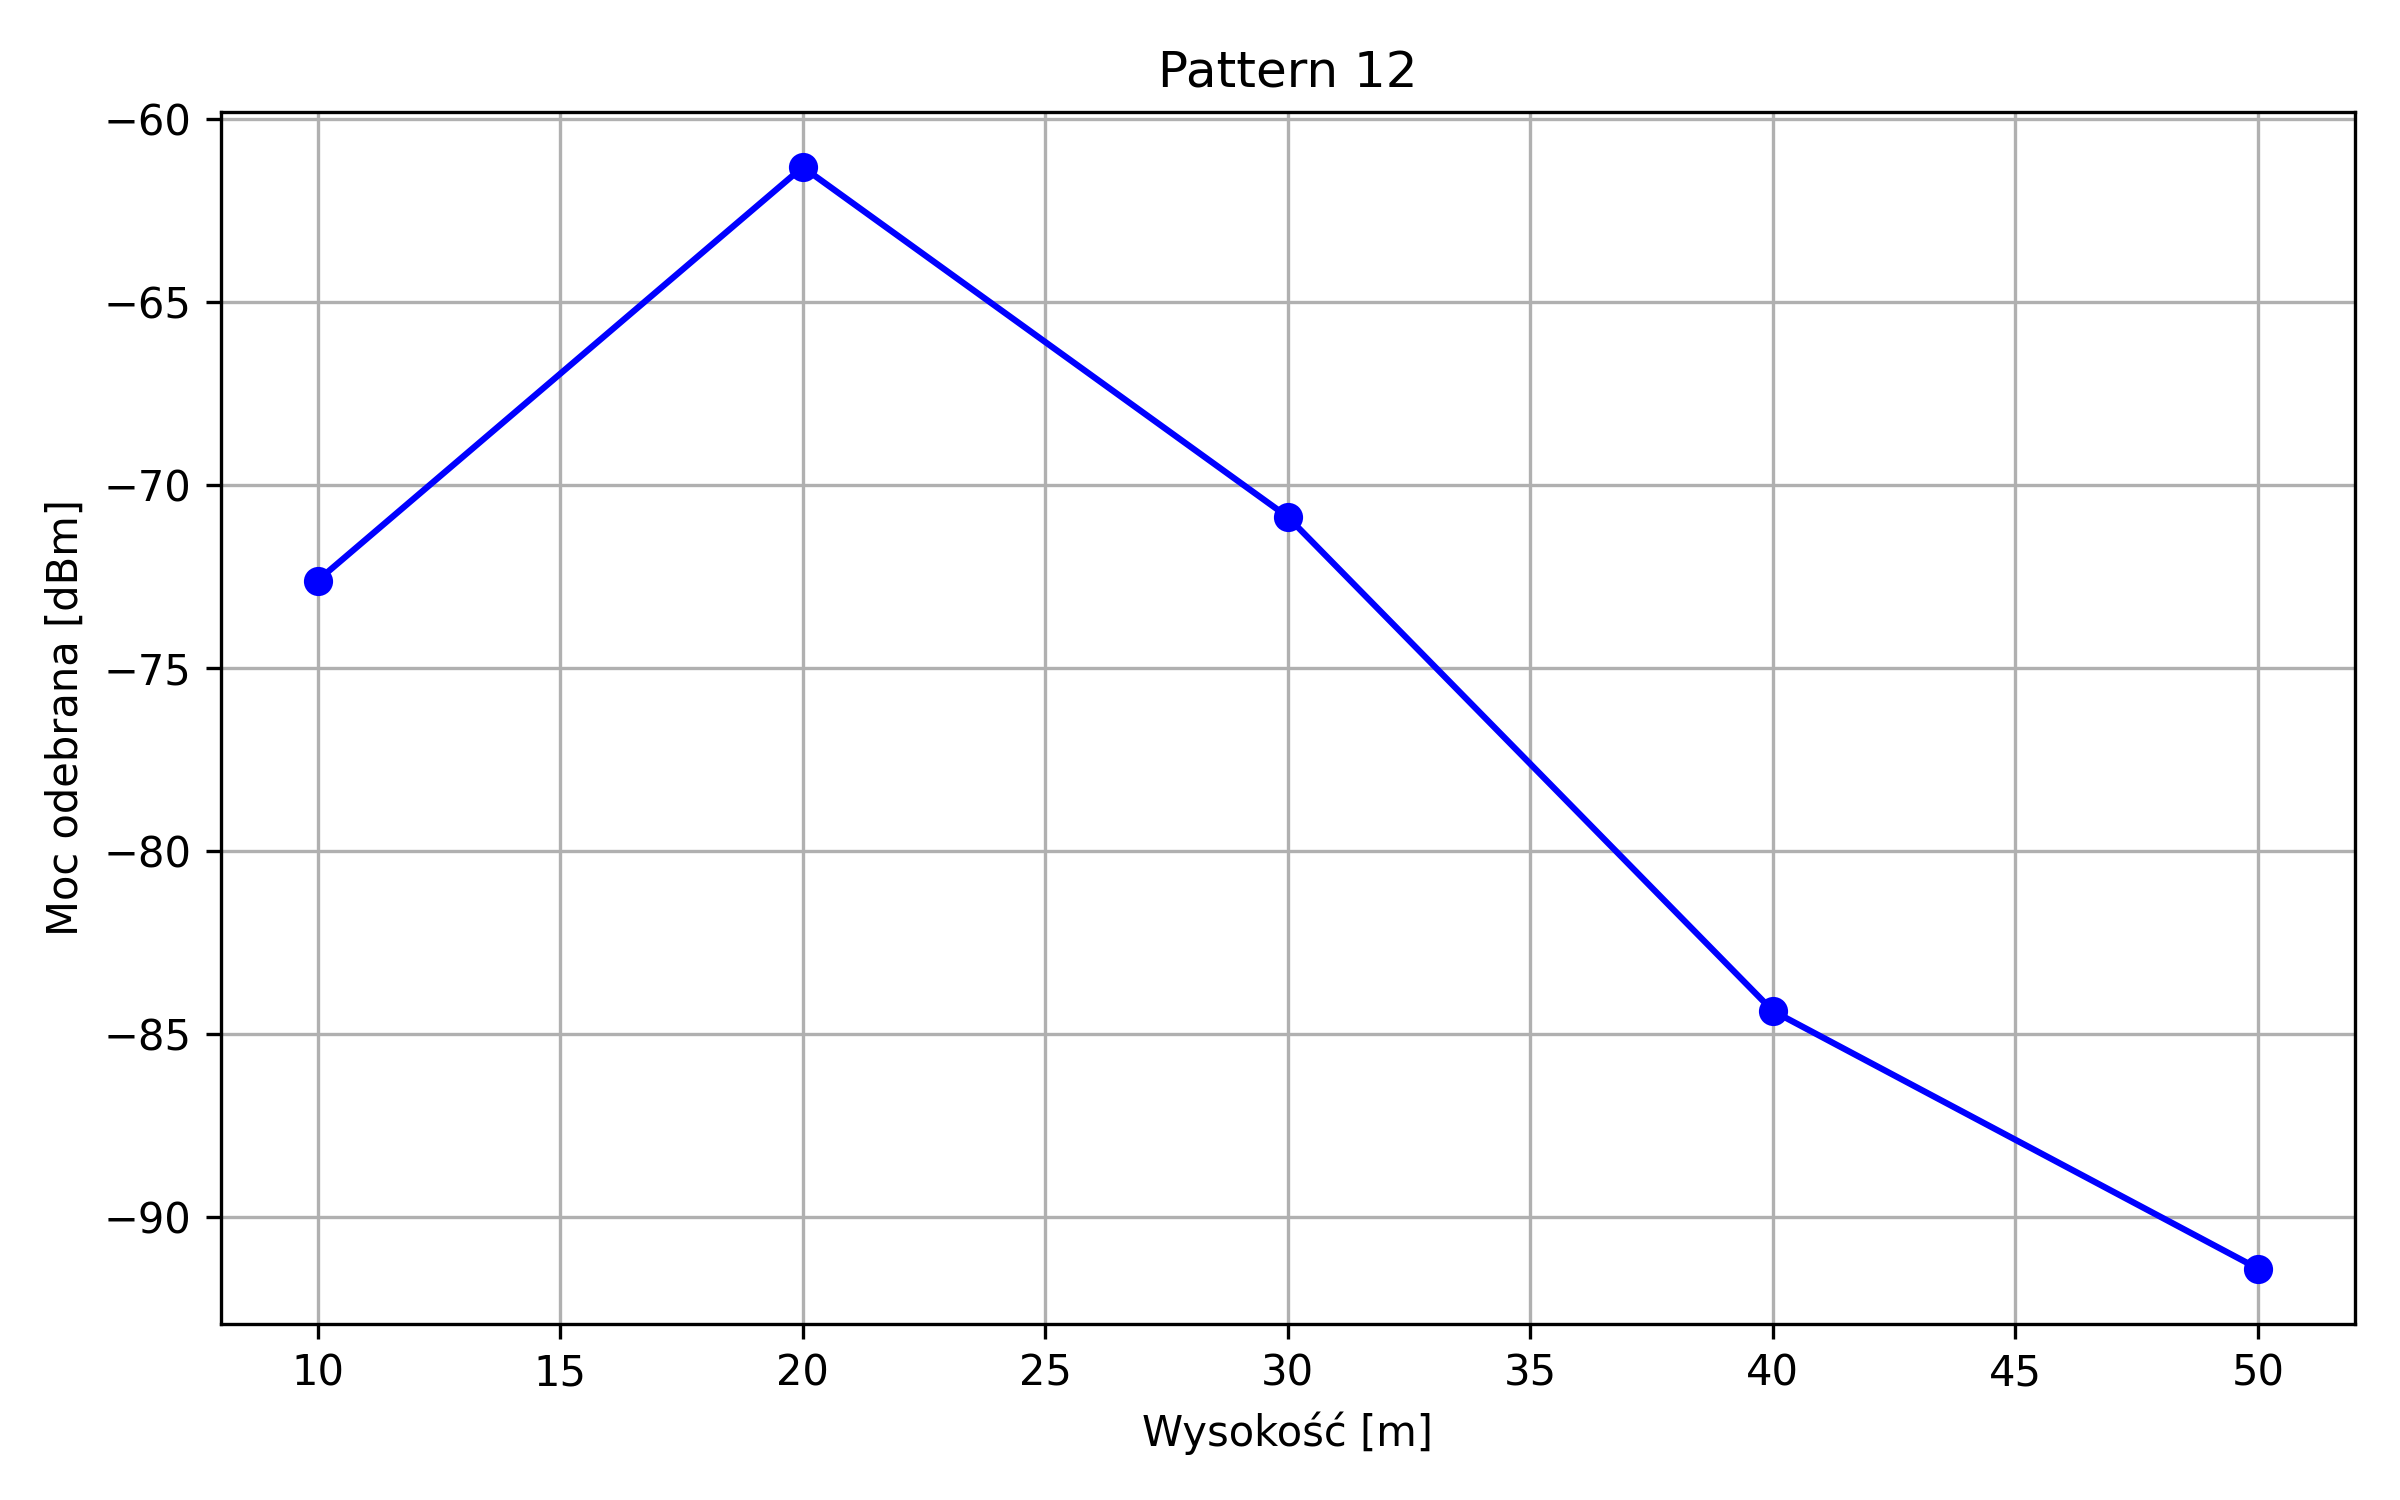
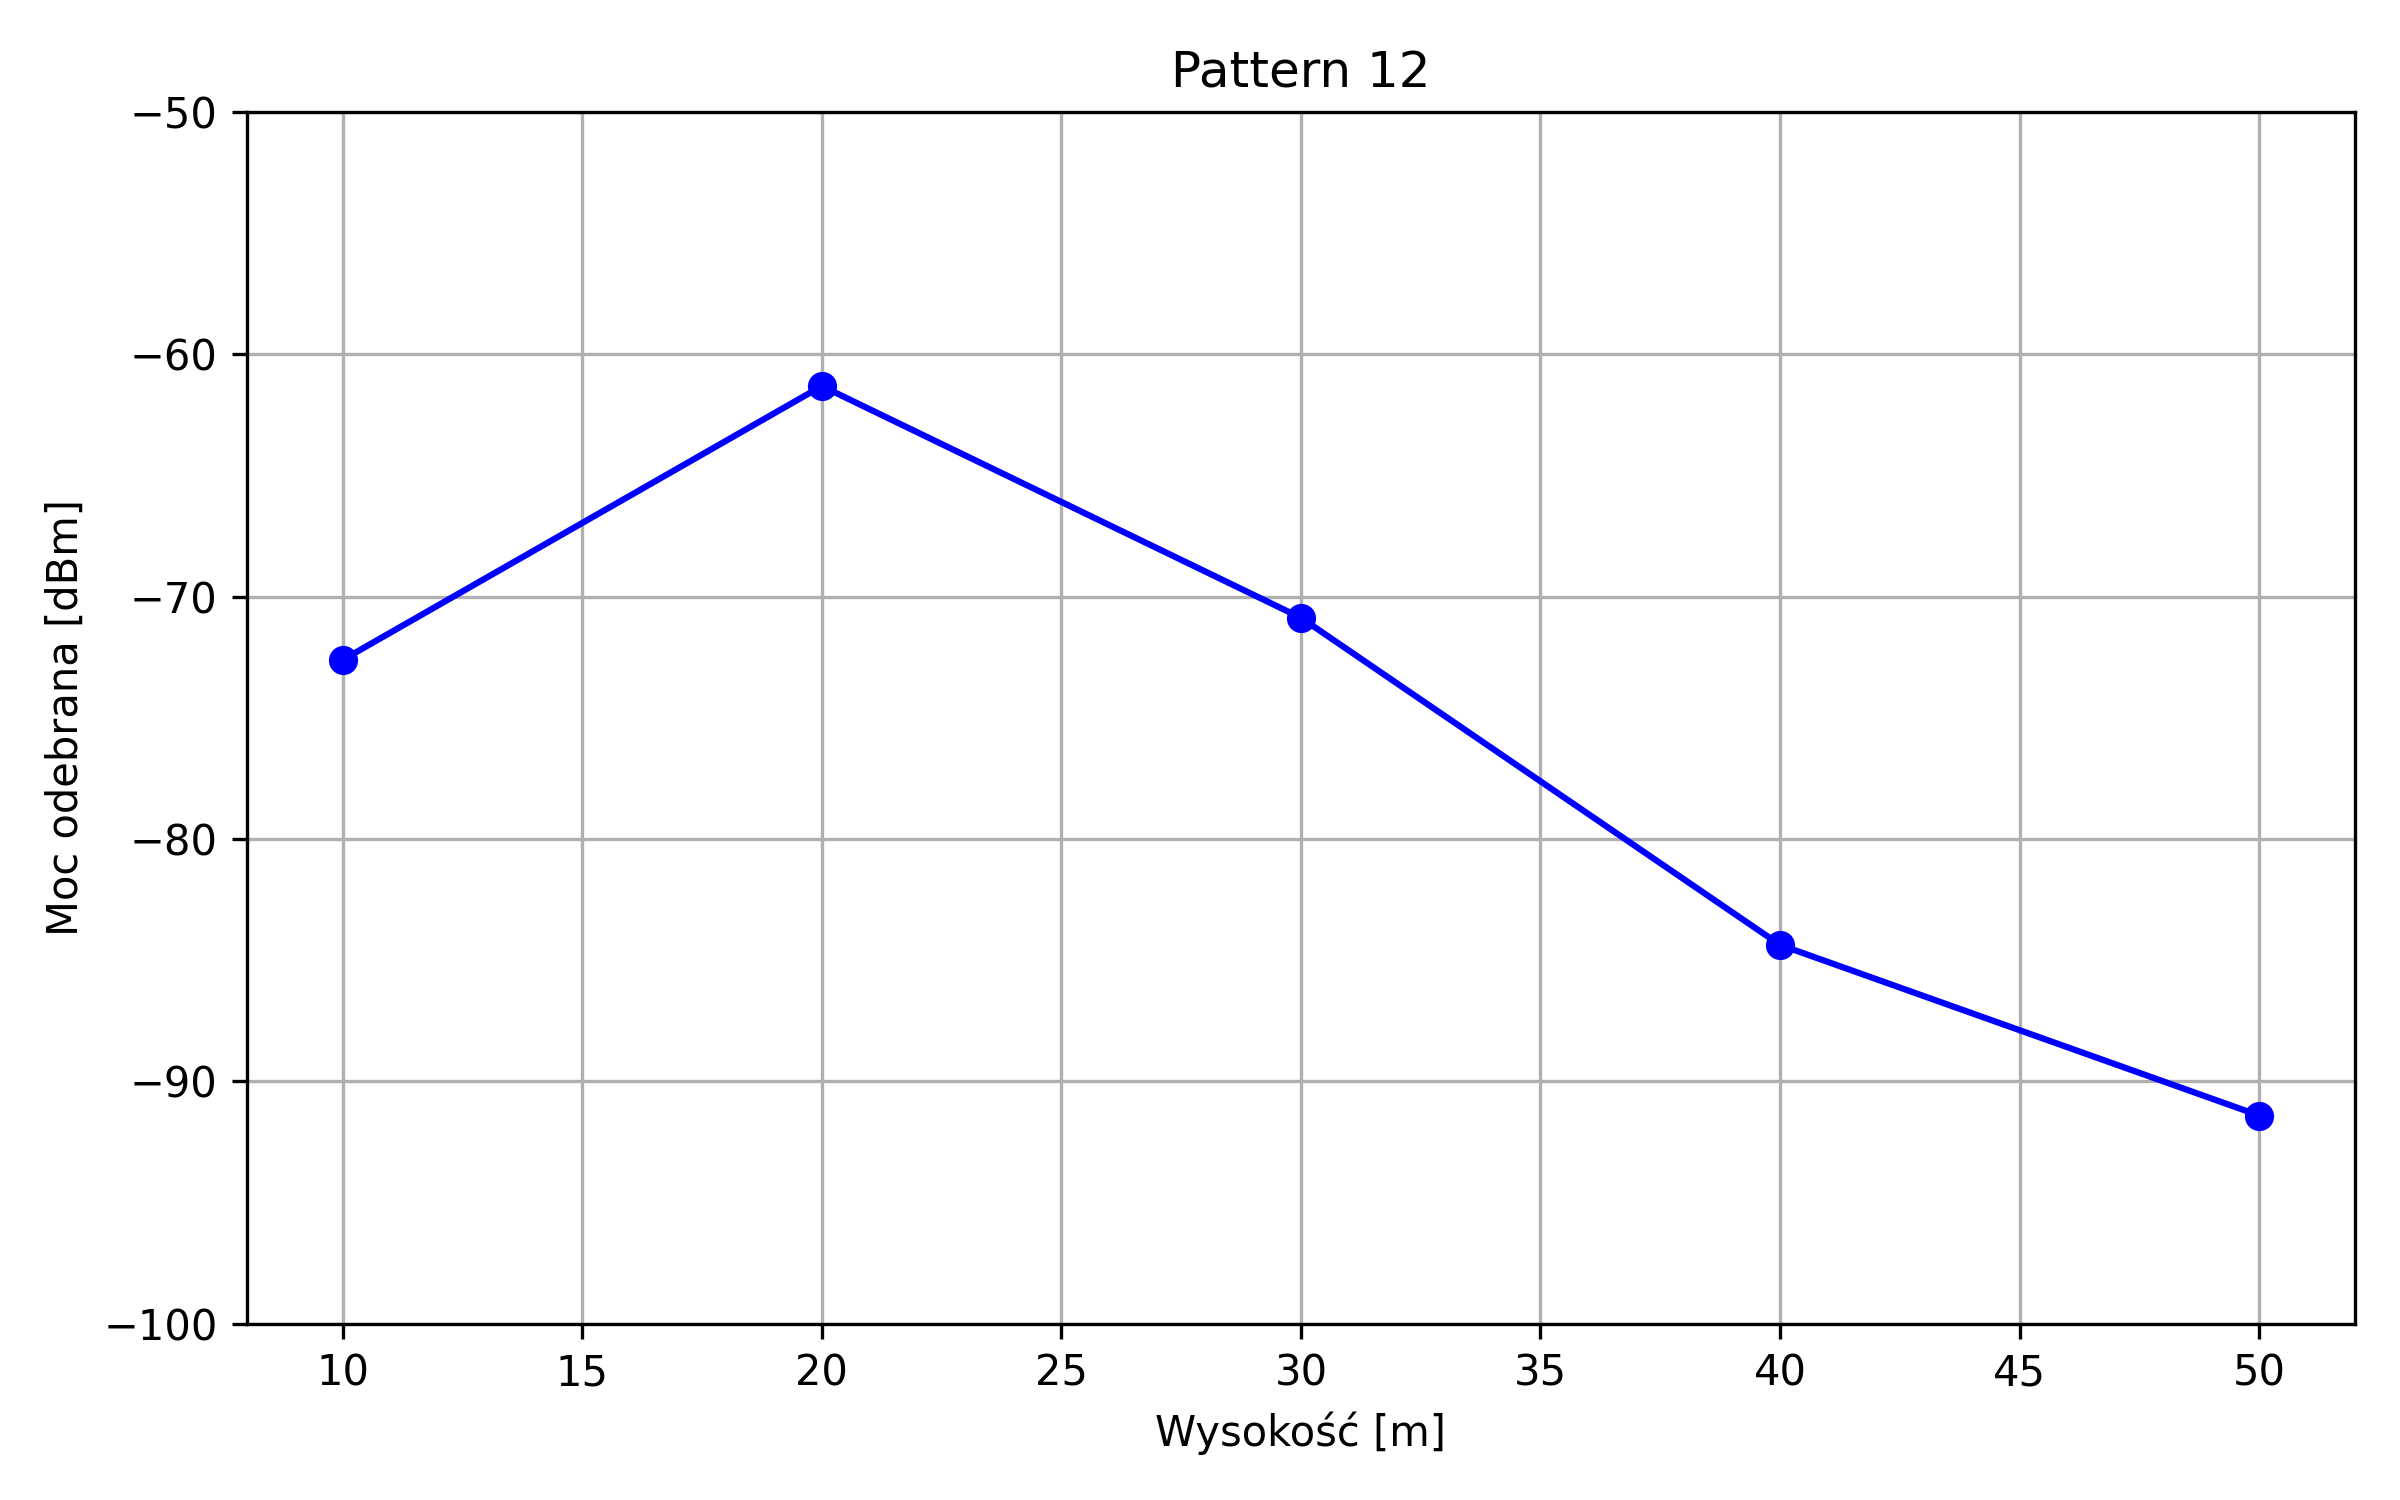
skale poprawione pt2

diff --git a/DANE_Z_POMIAROW/KAKOLEWO_25/pazdziernik_pomiary/21_10_25/scenariusz_wysokosc/wykresy.py b/DANE_Z_POMIAROW/KAKOLEWO_25/pazdziernik_pomiary/21_10_25/scenariusz_wysokosc/wykresy.py
@@ -9,11 +9,11 @@ from tqdm import tqdm
 
 # Ręcznie zdefiniowana lista plików CSV (możesz dodać lub zmienić)
 FILES = [
-    "C:\\Users\\d0437921\\Documents\\GitHub\\Python_RIS\\DANE_Z_POMIAROW\\KAKOLEWO_25\\pazdziernik_pomiary\\21_10_25\\scenariusz_wysokosc\\10m.csv",
-    "C:\\Users\\d0437921\\Documents\\GitHub\\Python_RIS\\DANE_Z_POMIAROW\\KAKOLEWO_25\\pazdziernik_pomiary\\21_10_25\\scenariusz_wysokosc\\20m.csv",
-    "C:\\Users\\d0437921\\Documents\\GitHub\\Python_RIS\\DANE_Z_POMIAROW\\KAKOLEWO_25\\pazdziernik_pomiary\\21_10_25\\scenariusz_wysokosc\\30m.csv",
-    "C:\\Users\\d0437921\\Documents\\GitHub\\Python_RIS\\DANE_Z_POMIAROW\\KAKOLEWO_25\\pazdziernik_pomiary\\21_10_25\\scenariusz_wysokosc\\40m.csv",
-    "C:\\Users\\d0437921\\Documents\\GitHub\\Python_RIS\\DANE_Z_POMIAROW\\KAKOLEWO_25\\pazdziernik_pomiary\\21_10_25\\scenariusz_wysokosc\\50m.csv",
+    "10m.csv",
+    "20m.csv",
+    "30m.csv",
+    "40m.csv",
+    "50m.csv",
 ]
 
 # Folder, do którego zapiszą się wykresy
@@ -77,6 +77,7 @@ for pattern in tqdm(sorted(data.keys()), desc="Wykresy", ncols=80):
 
     # Zapis wykresu
     out_path = os.path.join(OUTPUT_DIR, f"pattern_{pattern}.png")
+    plt.ylim(-100, -50)
     plt.tight_layout()
     plt.savefig(out_path, dpi=300)
     plt.close()

diff --git a/DANE_Z_POMIAROW/KAKOLEWO_25/pazdziernik_pomiary/21_10_25/scenariusz_wysokosc/min_max.py b/DANE_Z_POMIAROW/KAKOLEWO_25/pazdziernik_pomiary/21_10_25/scenariusz_wysokosc/min_max.py
@@ -8,11 +8,11 @@ from tqdm import tqdm
 # ================================
 
 FILES = [
-    "DANE_Z_POMIAROW/KAKOLEWO_25/pazdziernik_pomiary/21_10_25/scenariusz_wysokosc/10m.csv",
-    "DANE_Z_POMIAROW/KAKOLEWO_25/pazdziernik_pomiary/21_10_25/scenariusz_wysokosc/20m.csv",
-    "DANE_Z_POMIAROW/KAKOLEWO_25/pazdziernik_pomiary/21_10_25/scenariusz_wysokosc/30m.csv",
-    "DANE_Z_POMIAROW/KAKOLEWO_25/pazdziernik_pomiary/21_10_25/scenariusz_wysokosc/40m.csv",
-    "DANE_Z_POMIAROW/KAKOLEWO_25/pazdziernik_pomiary/21_10_25/scenariusz_wysokosc/50m.csv",
+    "10m.csv",
+    "20m.csv",
+    "30m.csv",
+    "40m.csv",
+    "50m.csv",
 ]
 
 
@@ -76,7 +76,7 @@ plt.ylabel("Moc odebrana [dBm]")
 plt.title("Moc minimalna i maksymalna dla różnych wysokości")
 plt.legend()
 plt.grid(True)
-plt.ylim(-100, -30)  # 📏 Równa skala osi Y
+plt.ylim(-100, -50)  # 📏 Równa skala osi Y
 plt.tight_layout()
 
 plt.savefig(OUTPUT_FILE, dpi=300)
